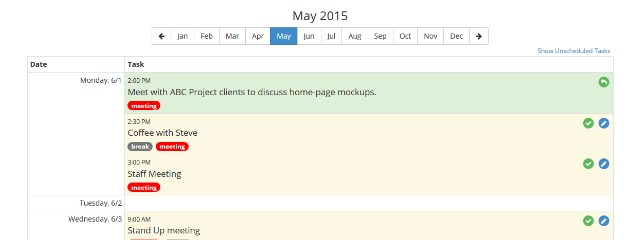
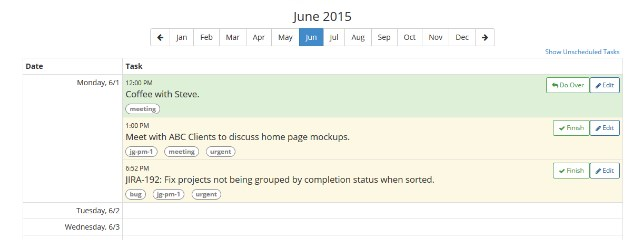
Fixed button colors, updated images, updated tutorial text.

Changed region(s): [[0.0312, 0.2042, 1.0, 1.0], [0.2188, 0.0292, 0.7812, 0.2042]]

diff --git a/ToDoListClient/src/app/modules/task/remaining/RemainingTasks.html b/ToDoListClient/src/app/modules/task/remaining/RemainingTasks.html
@@ -47,18 +47,18 @@
         <div class="row">
             <div class="col-xs-12">
                 <div class="btn-group pull-right">
-                    <button class="btn btn-primary-outline dropdown-toggle"
+                    <button class="btn btn-default btn-primary-outline dropdown-toggle"
                             data-toggle="dropdown">
                         <span class="fa fa-sort"></span>
                         Sort by: <span data-ng-bind="remainingCtrl.viewState.current"></span>
                     </button>
                     <ul class="dropdown-menu">
-                        <li><button data-ng-click="remainingCtrl.viewState.sort = 'timestampCreated';remainingCtrl.viewState.reverse = true;remainingCtrl.viewState.current='Newest First'" class="btn btn-block btn-primary-outline"><span class="fa fa-sort-amount-asc"></span> Newest First</button></li>
-                        <li><button data-ng-click="remainingCtrl.viewState.sort = 'timestampCreated';remainingCtrl.viewState.reverse = false;remainingCtrl.viewState.current='Oldest First'" class="btn btn-block btn-primary-outline"><span class="fa fa-sort-amount-desc"></span> Oldest First</button></li>
-                        <li><button data-ng-click="remainingCtrl.viewState.sort = 'name';remainingCtrl.viewState.reverse = false;remainingCtrl.viewState.current='A to Z'"  class="btn btn-block btn-primary-outline"><span class="fa fa-sort-alpha-asc"></span> A to Z</button></li>
-                        <li><button data-ng-click="remainingCtrl.viewState.sort = 'name';remainingCtrl.viewState.reverse = true;remainingCtrl.viewState.current='Z to A'"  class="btn btn-block btn-primary-outline"><span class="fa fa-sort-alpha-desc"></span> Z to A</button></li>
-                        <li><button data-ng-click="remainingCtrl.viewState.sort = 'totalTimeTracked';remainingCtrl.viewState.reverse = true;remainingCtrl.viewState.current='Most Tracked First'" class="btn btn-block btn-primary-outline"><span class="fa fa-sort-numeric-desc"></span> Most Tracked First</button></li>
-                        <li><button data-ng-click="remainingCtrl.viewState.sort = 'totalTimeTracked';remainingCtrl.viewState.reverse = false;remainingCtrl.viewState.current='Least Tracked First'" class="btn btn-block btn-primary-outline"><span class="fa fa-sort-numeric-asc"></span> Least Tracked First</button></li>
+                        <li><button data-ng-click="remainingCtrl.viewState.sort = 'timestampCreated';remainingCtrl.viewState.reverse = true;remainingCtrl.viewState.current='Newest First'" class="btn btn-block btn-default btn-primary-outline"><span class="fa fa-sort-amount-asc"></span> Newest First</button></li>
+                        <li><button data-ng-click="remainingCtrl.viewState.sort = 'timestampCreated';remainingCtrl.viewState.reverse = false;remainingCtrl.viewState.current='Oldest First'" class="btn btn-block btn-default btn-primary-outline"><span class="fa fa-sort-amount-desc"></span> Oldest First</button></li>
+                        <li><button data-ng-click="remainingCtrl.viewState.sort = 'name';remainingCtrl.viewState.reverse = false;remainingCtrl.viewState.current='A to Z'"  class="btn btn-block btn-default btn-primary-outline"><span class="fa fa-sort-alpha-asc"></span> A to Z</button></li>
+                        <li><button data-ng-click="remainingCtrl.viewState.sort = 'name';remainingCtrl.viewState.reverse = true;remainingCtrl.viewState.current='Z to A'"  class="btn btn-block btn-default btn-primary-outline"><span class="fa fa-sort-alpha-desc"></span> Z to A</button></li>
+                        <li><button data-ng-click="remainingCtrl.viewState.sort = 'totalTimeTracked';remainingCtrl.viewState.reverse = true;remainingCtrl.viewState.current='Most Tracked First'" class="btn btn-block btn-default btn-primary-outline"><span class="fa fa-sort-numeric-desc"></span> Most Tracked First</button></li>
+                        <li><button data-ng-click="remainingCtrl.viewState.sort = 'totalTimeTracked';remainingCtrl.viewState.reverse = false;remainingCtrl.viewState.current='Least Tracked First'" class="btn btn-block btn-default btn-primary-outline"><span class="fa fa-sort-numeric-asc"></span> Least Tracked First</button></li>
                     </ul>
                 </div>
             </div>

diff --git a/ToDoListClient/Gruntfile.js b/ToDoListClient/Gruntfile.js
@@ -1,6 +1,6 @@
 module.exports = function (grunt) {
     var appName = 'ToDoList';
-    var prodPath = './ToDoListServer/WebContent';
+    var prodPath = '../ToDoListServer/WebContent';
     grunt.initConfig({
         pkg: grunt.file.readJSON('package.json'),
         concat: {
@@ -56,10 +56,10 @@ module.exports = function (grunt) {
             },
             from_src_to_prod_dist: {
                 files: [
-                    {expand: true, cwd: 'src', src: ['app/**/*.html'], dest: 'prod_dist/'},
-                    {expand: true, cwd: 'src', src: ['app/**/*.css'], dest: 'prod_dist/'},
-                    {expand: true, cwd: 'src', src: ['app/test_data/*.json'], dest: 'prod_dist/'},
-                    {expand: true, cwd: 'src', src: ['app/resources/**/*'], dest: 'prod_dist/'}
+                    {expand: true, cwd: 'src/app', src: ['**/*.html'], dest: 'prod_dist/'},
+                    {expand: true, cwd: 'src/app', src: ['**/*.css'], dest: 'prod_dist/'},
+                    {expand: true, cwd: 'src/app', src: ['test_data/*.json'], dest: 'prod_dist/'},
+                    {expand: true, cwd: 'src/app', src: ['resources/**/*'], dest: 'prod_dist/'}
                 ]
             },
             from_prod_dist_to_server: {

diff --git a/ToDoListClient/src/app/modules/task/common/TimerButton.html b/ToDoListClient/src/app/modules/task/common/TimerButton.html
@@ -9,7 +9,7 @@
                   class="fa fa-clock-o"></span>
             <span data-ng-if="buttonCtrl.operations.trackingUntracking.tasks.status === 'LOADING'"
                   class="fa fa-spin fa-spinner"></span>
-            <span class="hidden-xs">Start Timer</span>
+            <span class="hidden-xs">Track</span>
         </button>
         <button class="btn btn-default btn-block btn-xs btn-primary-outline"
                 data-ng-if="task.tracking"
@@ -20,7 +20,7 @@
                   class="fa fa-clock-o"></span>
             <span data-ng-if="buttonCtrl.operations.trackingUntracking.status === 'LOADING'"
                   class="fa fa-spin fa-spinner"></span>
-            <span class="hidden-xs">Stop Timer</span>
+            <span class="hidden-xs">Stop Tracking</span>
         </button>
     </div>
 </div>

diff --git a/ToDoListClient/src/app/modules/task/common/CompleteButton.html b/ToDoListClient/src/app/modules/task/common/CompleteButton.html
@@ -11,7 +11,7 @@
             <span data-ng-if="buttonCtrl.operations.markComplete.status === 'LOADING'"
                   class="fa fa-spin fa-spinner"></span>
             <span class="hidden-xs"
-                  data-ng-if="!iconOnly">Mark Complete</span>
+                  data-ng-if="!iconOnly">Finish</span>
         </button>
         <button class="btn btn-default btn-block btn-success-outline"
                 data-ng-class="size"
@@ -24,7 +24,7 @@
             <span data-ng-if="buttonCtrl.operations.markIncomplete.status === 'LOADING'"
                   class="fa fa-spin fa-spinner"></span>
             <span class="hidden-xs"
-                  data-ng-if="!iconOnly">Mark Incomplete</span>
+                  data-ng-if="!iconOnly">Do Over</span>
         </button>
     </div>
 </div>

diff --git a/ToDoListClient/src/app/modules/task/common/DeleteButton.html b/ToDoListClient/src/app/modules/task/common/DeleteButton.html
@@ -9,6 +9,6 @@
             <span data-ng-if="buttonCtrl.operations.deleteTask.status === 'LOADING'"
                   class="fa fa-spin fa-spinner"></span>
             <span class="hidden-xs"
-                  data-ng-if="!iconOnly">Delete Task</span>
+                  data-ng-if="!iconOnly">Delete</span>
     </button>
 </div>

diff --git a/ToDoListServer/src/com/jgefroh/todolist/server/todolists/ToDoListManager.java b/ToDoListServer/src/com/jgefroh/todolist/server/todolists/ToDoListManager.java
@@ -59,7 +59,8 @@ public class ToDoListManager {
         return taskDAO.update(task);
     }
 
-    public void deleteTask(final int taskId) {
+    public void deleteTask(final String ownerId, final int taskId) {
+        Task task = getTask(ownerId, taskId);
         taskDAO.delete(Task.class, taskId);
     }
     
@@ -78,10 +79,11 @@ public class ToDoListManager {
     
     public List<Task> getIncompleteTasks(final String ownerId) {
         ToDoList list = getList(ownerId);
-        for (Task task : list.getIncompleteTasks() == null ? Collections.<Task>emptyList() : list.getIncompleteTasks()) {
+        List<Task> tasks = list.getIncompleteTasks() == null ? Collections.<Task>emptyList() : list.getIncompleteTasks();
+        for (Task task : tasks) {
             task.bankTime();
         }
-        return list.getIncompleteTasks();
+        return tasks;
     }
     
     public List<Task> getCompleteTasks(final String ownerId) {
@@ -114,17 +116,27 @@ public class ToDoListManager {
     }
     
     private void addTutorialTasks(final ToDoList list) {
-        Task firstTask = taskDAO.update(Task.create(list.getOwnerId(), "Welcome to ToDoList! You can mark this task as 'Complete', edit its details, or track time on it!", "Tutorial"));
-        firstTask.schedule(new Date());
-        firstTask.tag("Tutorial");
-        list.addTask(firstTask);
+
+        Task feedbackTask = Task.create(list.getOwnerId(), "Feel free to send me feedback!", "Tutorial");
+        feedbackTask.schedule(new Date());
+        feedbackTask.setDescription("Email me at joseph.gefroh@gmail.com with feature requests, likes/dislikes, or comments!");
+        feedbackTask.tag("tutorial");
+        feedbackTask.tag("useful");
+        feedbackTask = taskDAO.update(feedbackTask);
+        list.addTask(feedbackTask);
         
-        Task firstCompletedTask = Task.create(list.getOwnerId(), "You can mark this completed task as 'Incomplete', or delete it forever!", "Tutorial");
-        firstCompletedTask.schedule(new Date());
-        firstCompletedTask.markComplete();
-        firstCompletedTask.tag("Tutorial");
-        firstCompletedTask = taskDAO.update(firstCompletedTask);
-        list.addTask(firstCompletedTask);
+        Task tipsTask = Task.create(list.getOwnerId(), "You can mark this task as 'Complete', edit its details, or track time on it!", "Tutorial");
+        tipsTask.schedule(new Date());
+        tipsTask.tag("tutorial");
+        tipsTask.tag("useful");
+        tipsTask = taskDAO.update(tipsTask);
+        list.addTask(tipsTask);
+
+        Task welcomeTask = taskDAO.update(Task.create(list.getOwnerId(), "Welcome to ToDoList!", "Tutorial"));
+        welcomeTask.schedule(new Date());
+        welcomeTask.tag("tutorial");
+        welcomeTask.track();
+        list.addTask(welcomeTask);
         
         listDAO.update(list);
     }

diff --git a/ToDoListServer/src/com/jgefroh/todolist/server/todolists/TaskEndpoint.java b/ToDoListServer/src/com/jgefroh/todolist/server/todolists/TaskEndpoint.java
@@ -12,9 +12,7 @@ import javax.ws.rs.Path;
 import javax.ws.rs.PathParam;
 import javax.ws.rs.Produces;
 import javax.ws.rs.QueryParam;
-import javax.ws.rs.WebApplicationException;
 import javax.ws.rs.core.MediaType;
-import javax.ws.rs.core.Response;
 
 import com.jgefroh.server.core.validation.ValidationException;
 import com.jgefroh.todolist.server.core.ToDoListException;
@@ -61,7 +59,7 @@ public class TaskEndpoint {
     @DELETE
     @Path("/{taskId}/{ownerId}")
     public void deleteTask(@PathParam("ownerId") final String ownerId, @PathParam("taskId") final Integer taskId) {
-        listManager.deleteTask(taskId);
+        listManager.deleteTask(ownerId, taskId);
     }
     
     @PUT

diff --git a/ToDoListServer/src/com/jgefroh/todolist/server/todolists/TaskDAO.java b/ToDoListServer/src/com/jgefroh/todolist/server/todolists/TaskDAO.java
@@ -1,8 +1,6 @@
 package com.jgefroh.todolist.server.todolists;
 
 import javax.ejb.Stateless;
-import javax.persistence.EntityManager;
-import javax.persistence.PersistenceContext;
 
 import com.jgefroh.todolist.server.core.ToDoListGenericDAO;
 

diff --git a/ToDoListServer/src/com/jgefroh/todolist/server/todolists/Task.java b/ToDoListServer/src/com/jgefroh/todolist/server/todolists/Task.java
@@ -396,7 +396,7 @@ public class Task {
         this.order = order;
     }
     
-    private void setDescription(String description) {
+    public void setDescription(String description) {
         this.description = description;
     }
     

diff --git a/ToDoListServer/src/com/jgefroh/todolist/server/todolists/ToDoList.java b/ToDoListServer/src/com/jgefroh/todolist/server/todolists/ToDoList.java
@@ -9,7 +9,6 @@ import javax.persistence.FetchType;
 import javax.persistence.GeneratedValue;
 import javax.persistence.GenerationType;
 import javax.persistence.Id;
-import javax.persistence.NamedQuery;
 import javax.persistence.OneToMany;
 
 
